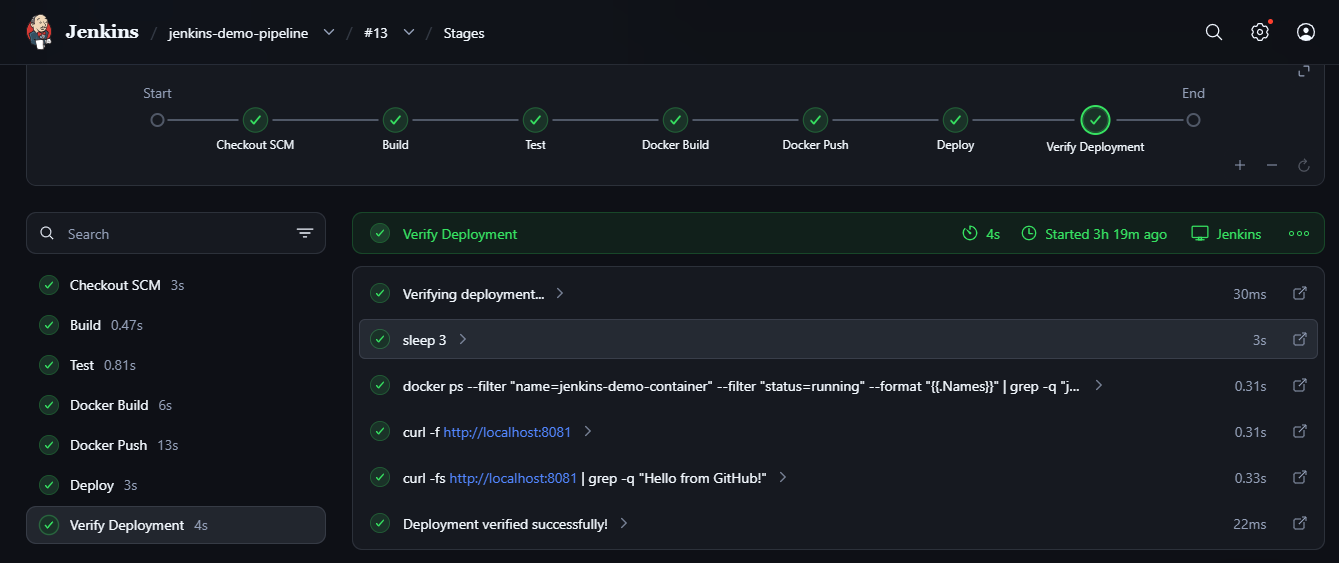
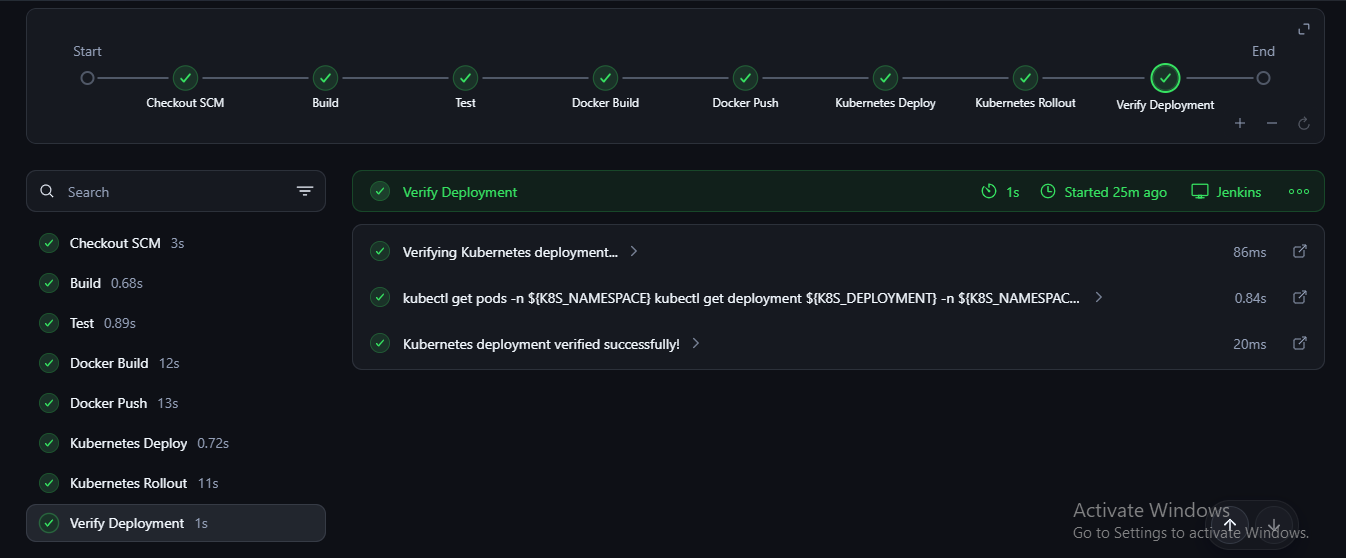
Add project screenshots

diff --git a/README.md b/README.md
@@ -70,6 +70,20 @@ jenkins-kubernetes-cicd/
 ├── k8s-ingress.yaml
 └── README.md
 
+## 📸 Screenshots
+
+### Jenkins Pipeline
+
+![Jenkins Pipeline](screenshots/jenkins-pipeline-success.png)
+
+### Kubernetes Deployment
+
+![Kubernetes Deployment](screenshots/kubernetes-deployment.png)
+
+### Application Through Ingress
+
+![Ingress Application](screenshots/ingress-application.png)
+
 ## 🎯 Key Skills Demonstrated
 
 Jenkins · CI/CD · Git · GitHub · Docker · Docker Hub · Kubernetes · Ingress · Linux · Bash · Pipeline as Code
